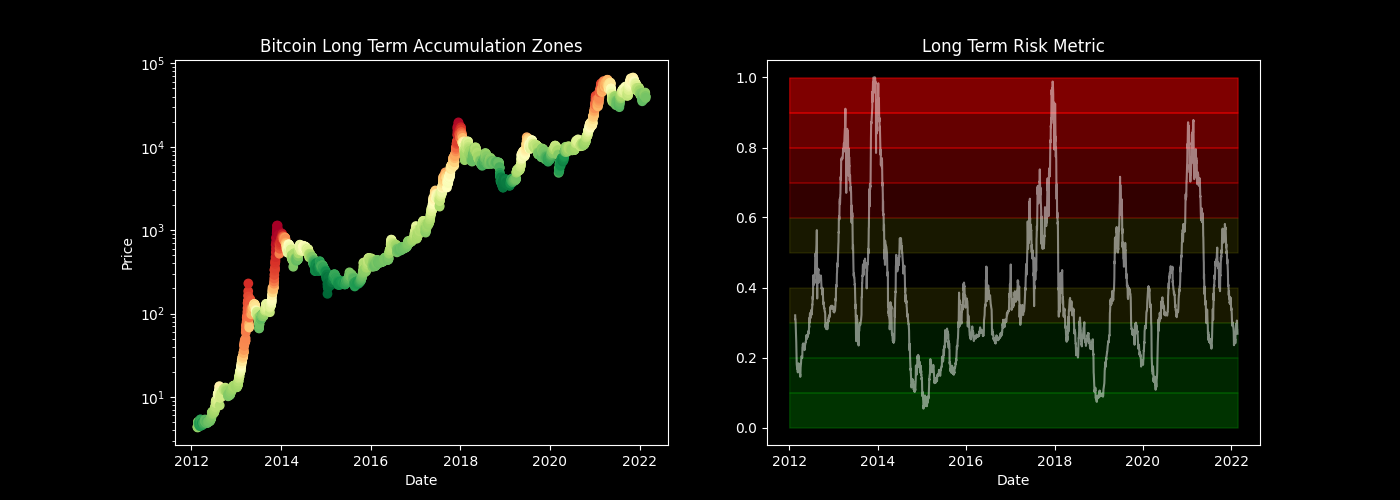
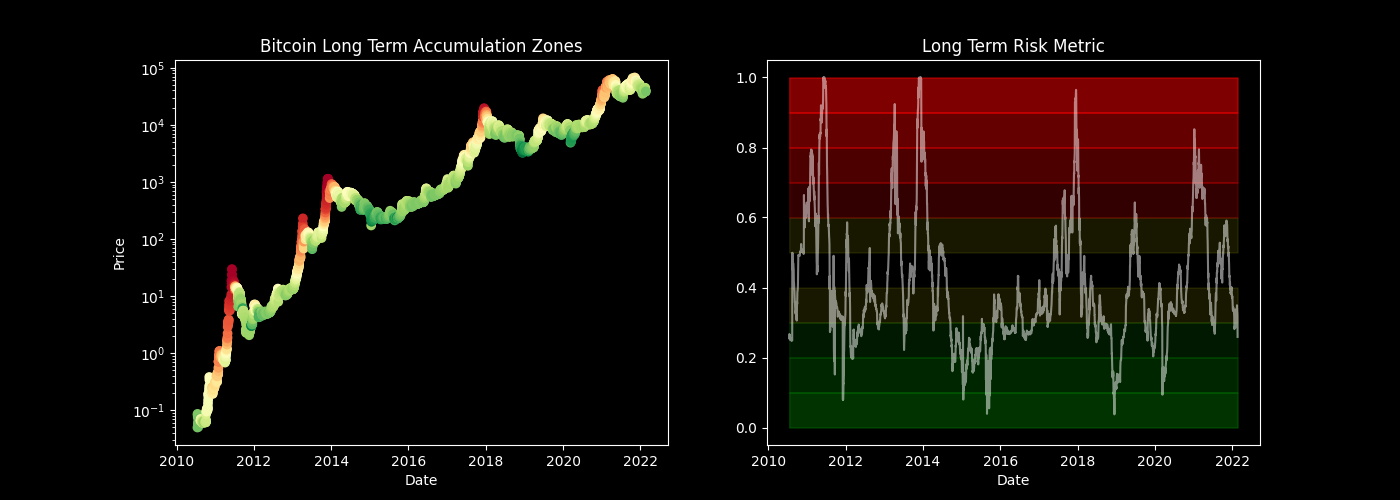
v_1.2.0-alpha

diff --git a/main.py b/main.py
@@ -1,7 +1,7 @@
 import pandas as pd
 import requests
 import json
-from datetime import datetime, timedelta
+from datetime import date, datetime, timedelta
 import plotly.graph_objects as go
 import matplotlib.pyplot as plt
 import numpy as np
@@ -10,29 +10,29 @@ import math
 from scipy.optimize import curve_fit
 from sklearn import preprocessing
 from auxiliary_functions import rescale_sopr, rescale_extension, calculate_extension, regression_bands, \
-    fair_value_regression, fair_value_extension, import_data, rescale_fair_value, long_term_risk_metric
+    fair_value_regression, fair_value_extension, import_data, long_term_risk_metric, logarithmic_regression, \
+    sma_200_extension
 
 
 pd.set_option("display.max_columns", None)
 
 API_KEY = '257eUgVAg2YcQU6j4GgzyqB9rbj'
-urls = [#'https://api.glassnode.com/v1/metrics/market/price_usd_close',
-        'https://api.glassnode.com/v1/metrics/market/price_usd_ohlc',
+urls = ['https://api.glassnode.com/v1/metrics/market/price_usd_ohlc',
         'https://api.glassnode.com/v1/metrics/indicators/sopr']
 
 
-def plot_figure(y_range, x_data, y_data, title):
-
-    plt.title(title)
-    colour_map = plt.cm.get_cmap('RdYlGn').reversed()
-    plt.scatter(x_data, y_data, c=y_data, cmap=colour_map)
-    plt.ylim(y_range[0], y_range[1])
-    plt.colorbar()
-    plt.xticks(rotation=50)
-    plt.tight_layout()
-    plt.savefig(f'{title}.png')
-    plt.show()
-    plt.close()
+# def plot_figure(y_range, x_data, y_data, title):
+#
+#     plt.title(title)
+#     colour_map = plt.cm.get_cmap('RdYlGn').reversed()
+#     plt.scatter(x_data, y_data, c=y_data, cmap=colour_map)
+#     plt.ylim(y_range[0], y_range[1])
+#     plt.colorbar()
+#     plt.xticks(rotation=50)
+#     plt.tight_layout()
+#     plt.savefig(f'{title}.png')
+#     plt.show()
+#     plt.close()
 
 # def plot_price_data(df):
 #     candles = go.Candlestick(x=df.index, open=df['open'], high=df['high'], low=df['low'], close=df['close'])
@@ -52,25 +52,26 @@ def plot_figure(y_range, x_data, y_data, title):
 
 
 
-
-
-
 def main():
 
     df = import_data(urls, API_KEY)
-
-    df = calculate_extension(df)
-
+    df = pd.concat([df, calculate_extension(df)], axis=1)
+    plt.style.use("dark_background")
 
     # process sopr values
     df['sopr'] = preprocessing.StandardScaler().fit_transform(df['sopr'].values.reshape(-1, 1))[:, 0]
-    df['sopr'] = df['sopr'].rolling(50).mean().apply(rescale_sopr)
+    df['sopr'] = df['sopr'].rolling(30).mean().apply(rescale_sopr)
     df['sopr'] = preprocessing.MinMaxScaler().fit_transform(df['sopr'].values.reshape(-1, 1))[:, 0]
+    #df.loc[df.index < pd.to_datetime(date(2012, 1, 1))]['sopr'] = np.nan
+    # plt.plot(df['sopr'])
+    # plt.show()
 
     # process extension values
     df['extension'] = preprocessing.StandardScaler().fit_transform(df['extension'].values.reshape(-1, 1))[:, 0]
     df['extension'] = df['extension'].apply(rescale_extension)
     df['extension'] = preprocessing.MinMaxScaler().fit_transform(df['extension'].values.reshape(-1, 1))[:, 0]
+    # plt.plot(df['extension'])
+    # plt.show()
 
     # process fear and green index values
     df['fear_and_greed'] = df['fear_and_greed'].apply(lambda x: x/100.0).ewm(span=50, adjust=False).mean()
@@ -78,13 +79,20 @@ def main():
     # plot_figure([accumulation_score.min(), accumulation_score.max()], accumulation_score.dropna().index, accumulation_score.dropna(),
     #             "Accumulation Score")
 
+    # process 200w MA extension
+    sma_200 = df['close'].rolling(1400).mean()
+    sma_200 = sma_200_extension(df, sma_200)
+    sma_200 = sma_200[sma_200 < 1.0]
+    sma_200 = pd.Series(preprocessing.MinMaxScaler().fit_transform(abs(1/sma_200).values.reshape(-1, 1))[:, 0], index=sma_200.index)
+    sma_200.drop(sma_200.index[sma_200 > 0.15], inplace=True)
 
     # LONG TERM BTC OUTLOOK (1 YEAR +)
 
     regression_bands(df)
     fair_value = pd.Series(fair_value_regression(df), index=df.index)
     fve = fair_value_extension(df, fair_value)
-
+    # plt.plot(df.index, fve)
+    # plt.show()
     #
     # # OTHER PLOTTING
     #
@@ -97,9 +105,63 @@ def main():
     # ax2.set_ylabel('Accumulation Score')
     #plt.xlim(datetime(2019,1,1), datetime.today() + timedelta(days=30))
     #plt.ylim(0.5*df[df.index > datetime(2019,1,1)]['close'].min(), 1.25*df[df.index > datetime(2019,1,1)]['close'].max())
+
+    # CALCULATE ACCUMULATION SCORE
+
     accumulation_score = (df['sopr'] + df['extension'] + df['fear_and_greed'] + fve) / 4.0
     accumulation_score[df['fear_and_greed'].isna()] = (df['sopr'] + df['extension'] + fve) / 3.0
+    accumulation_score[df['sopr'].isna()] = (df['extension'] + fve) / 2.0
+    accumulation_score[df.index.isin(sma_200.index)] -= sma_200
+
     long_term_risk_metric(df, accumulation_score)
+
+    #print(df[accumulation_score > 0.8]['close'])
+
+    temp_df = df.reset_index(drop=True)
+    non_bubble_data = temp_df[accumulation_score.reset_index(drop=True) < 0.20]
+    bubble_data = temp_df[accumulation_score.reset_index(drop=True) > 0.9]
+
+    non_bubble_data = logarithmic_regression(non_bubble_data['close'], index=non_bubble_data.index, df_index=df.index)
+    bubble_data = logarithmic_regression(bubble_data['close'], index=bubble_data.index, df_index=df.index)
+
+
+    fig, ax1 = plt.subplots()
+    plt.title("Bitcoin Fair Value Logarithmic Regression Bands")
+    ax1.set_xlabel('Date')
+    ax1.set_ylabel('Price')
+
+    # plot BTC price
+    # colour_map = plt.cm.get_cmap('RdYlGn').reversed()
+    # ax1.scatter(df.index, df['close'], c=accumulation_score, cmap=colour_map)
+    ax1.set_yscale('log')
+    ax1.plot(df['close'], color='white', lw=0.5)
+    #ax1.plot(sma_200, color='white')
+
+    # ax1.plot(df.index, non_bubble_data, color='green', lw=0.5)
+    # ax1.plot(df.index, bubble_data, color='red', lw=0.5)
+
+    for i in [-0.2, 0, 0.2]:
+
+        if i == 0:
+            ax1.plot(df.index, non_bubble_data * np.exp(i), color='green', lw=0.5)
+            ax1.plot(df.index, bubble_data * np.exp(i), color='red', lw=0.5)
+        else:
+            ax1.plot(df.index, non_bubble_data * np.exp(i), color='green', lw=0.25)
+            ax1.plot(df.index, bubble_data * np.exp(i), color='red', lw=0.25)
+
+        if i != -0.2:
+            plt.fill_between(df.index, bubble_data * np.exp(i - 0.2), bubble_data * np.exp(i), alpha=0.4, color='red')
+        plt.fill_between(df.index, non_bubble_data * np.exp(i - 0.2), non_bubble_data * np.exp(i), alpha=0.4, color='green')
+
+
+    plt.xticks(rotation=50)
+    plt.tight_layout()
+
+    #plt.savefig('figs//fair_value_regression_band.png', dpi=300)
+    plt.show()
+    plt.close()
+
+
 
 
 

diff --git a/auxiliary_functions.py b/auxiliary_functions.py
@@ -46,8 +46,8 @@ def import_data(urls, api_key):
     # join all data into one dataframe
     data_df = data_df.join(df)
 
-    return data_df.drop(data_df.index[data_df.index < datetime(2012, 1, 1)])
-    #return data_df
+    #return data_df.drop(data_df.index[data_df.index < datetime(2012, 1, 1)])
+    return data_df
 
 def calculate_extension(df):
     # extension from 20 week sma/21 week ema
@@ -66,23 +66,23 @@ def calculate_extension(df):
     below.rename('extension', inplace=True)
     neutral.rename('extension', inplace=True)
 
-    return pd.concat([df, pd.concat([above, below, neutral], axis=0)], axis=1)
+    return pd.concat([above, below, neutral], axis=0)
 
 
 # RESCALING FUNCTIONS
 def rescale_sopr(x):
-    if x > 1.0:
-        x = 1.0
-    elif x < -1.0:
-        x = -1.0
+    if x > 0.6:
+        x = 0.6
+    elif x < -0.8:
+        x = -0.8
     return x
 
 
 def rescale_extension(x):
     if x > 2:
         x = 2
-    if x < -1:
-        x = -1
+    elif x < -1.1:
+        x = 1.1
     return x
 
 def rescale_fair_value(fair_value_extension):
@@ -105,13 +105,18 @@ def objective(x, a, b, c, d):
     return a * np.log(b * x + c) + d
 
 
-def logarithmic_regression(y_data):
-    x_values = [x + 1 for x in range(len(y_data))]
+def logarithmic_regression(y_data, index=None, df_index=None):
+
+    x_values = [x + 1 for x in range(len(y_data))] if index is None else [i+1 for i in index]
     y_values = np.log(y_data)
 
-    popt, _ = curve_fit(objective, x_values, y_values, bounds=((0, 0, 0, -np.inf), (np.inf, 100, 100, np.inf)))
+    popt, _ = curve_fit(objective, x_values, y_values, p0=(5, 0.5, 70, -15), bounds=((0, 0, 0, -1000), (100, 100, 10000, 1000)))
+    #print(popt)
+    if df_index is None:
+        return np.exp(objective(np.array(x_values), popt[0], popt[1], popt[2], popt[3]))
 
-    return np.exp(objective(np.array(x_values), popt[0], popt[1], popt[2], popt[3]))
+    return np.exp(objective(np.array([x + 1 for x in range(len(df_index))]), popt[0], popt[1], popt[2], popt[3]))
+
 
 
 def fair_value_regression(df):
@@ -141,6 +146,7 @@ def fair_value_regression(df):
     plt.tight_layout()
 
     plt.savefig('figs//fair_value_regression_band.png', dpi=300)
+    #plt.show()
     plt.close()
 
     return fair_value
@@ -159,7 +165,7 @@ def regression_bands(df):
     # plot regression bands
     fair_value = logarithmic_regression(df['close'])
 
-    for i in [-0.5, 0, 0.5, 1, 1.5, 2]:
+    for i in [-0.5, 0, 0.5, 1, 1.5, 2, 2.5]:
         ax1.plot(df.index, fair_value * np.exp(i), lw=0.5)
         plt.fill_between(df.index, fair_value * np.exp(i - 0.5), fair_value * np.exp(i), alpha=0.4)
 
@@ -176,36 +182,10 @@ def fair_value_extension(df, fair_value):
     fv_extension = rescale_fair_value(fv_extension)
     fv_extension = preprocessing.MinMaxScaler().fit_transform(np.array(fv_extension).reshape(-1, 1))[:, 0]
 
-    # fig, (ax1, ax2) = plt.subplots(1, 2)
-    # fig.set_figheight(5)
-    # fig.set_figwidth(10)
-    #
-    # ax1.set_title("Bitcoin Long Term Accumulation Zones")
-    # ax1.set_xlabel('Date')
-    # ax1.set_yscale('log')
-    # ax1.set_ylabel('Price')
-    #
-    # ax2.set_title('Long Term Risk Metric')
-    # ax2.set_xlabel('Date')
-    #
-    # colour_map = plt.cm.get_cmap('RdYlGn').reversed()
-    # ax1.scatter(df.index, df['close'], c=fv_extension, cmap=colour_map)
-    #
-    # for i in np.linspace(0.1, 1.0, 10):
-    #
-    #     if round(i, 2) <= 0.3:
-    #         colour = 'green'
-    #     elif round(i, 2) >= 0.7:
-    #         colour = 'red'
-    #     else:
-    #         colour = 'yellow'
-    #
-    #     ax2.fill_between(df.index, i - 0.1, i, alpha=abs(i - 0.5), color=colour)
-    #
-    # ax2.plot(df.index, fv_extension, color='white', alpha= 0.5)
-    # plt.savefig('figs//Bitcoin Long Term Accumulation Zones')
-    # plt.close()
     return fv_extension
+
+def sma_200_extension(df, sma_200):
+    return (df['close']/sma_200).apply(lambda value: value - 1)
 
 def long_term_risk_metric(df, accumulation_score):
     fig, (ax1, ax2) = plt.subplots(1, 2)
@@ -236,5 +216,6 @@ def long_term_risk_metric(df, accumulation_score):
 
     ax2.plot(df.index, accumulation_score, color='white', alpha=0.5)
     plt.savefig('figs//Bitcoin Long Term Accumulation Zones')
+    plt.show()
     plt.close()
 
